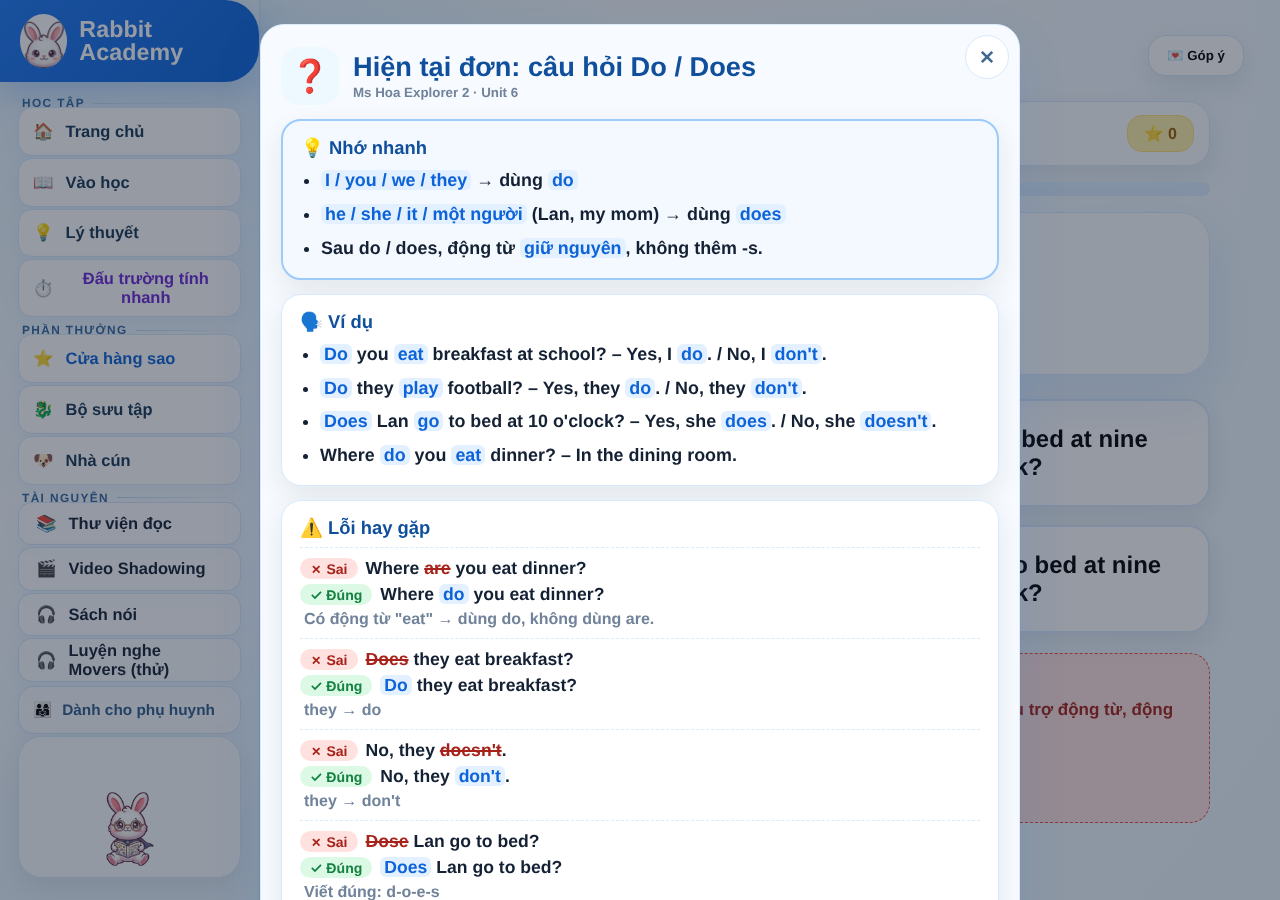
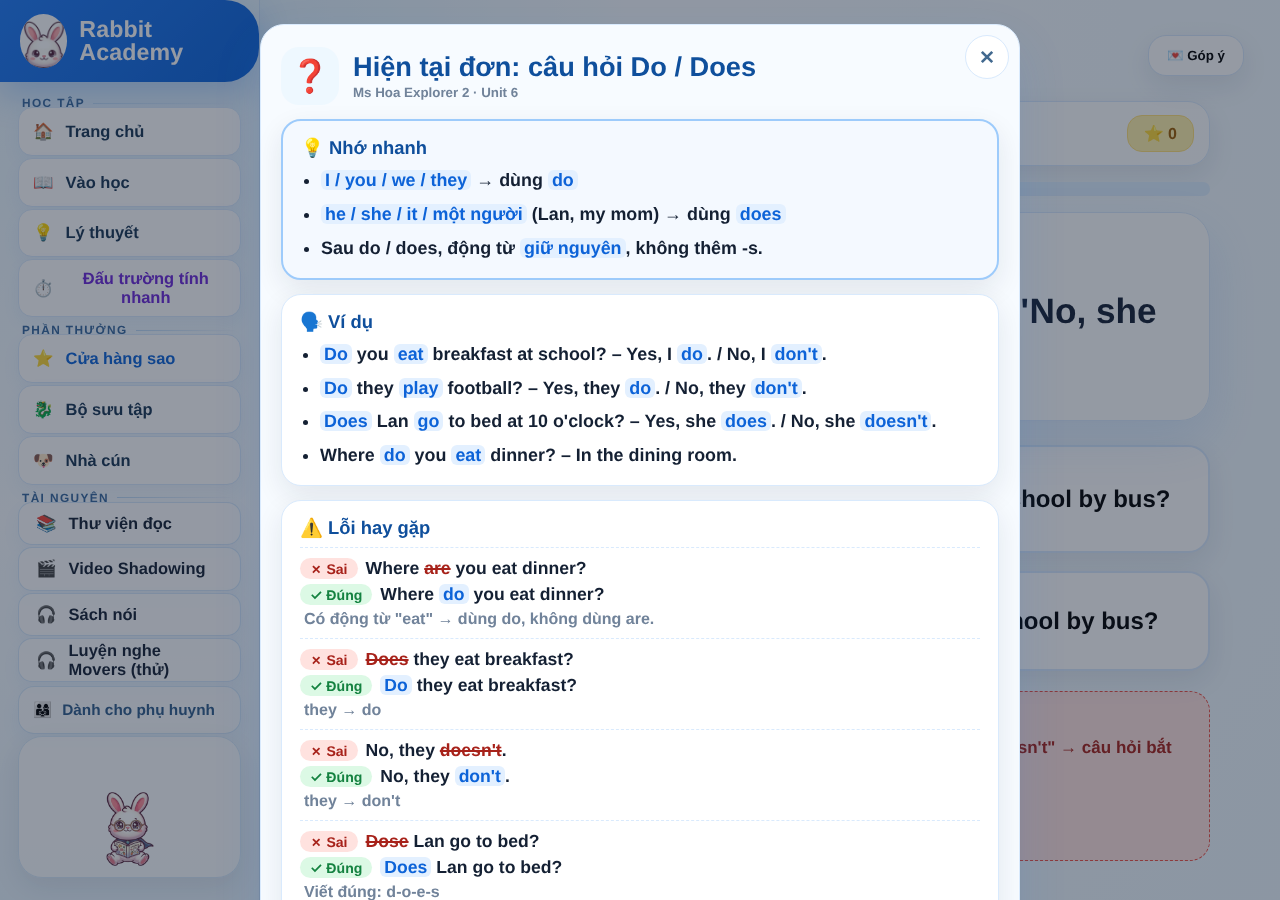
fix: khung chia cân hai bên vạch, lời giải "Hạ 7, được 17" (Gemini review)
.dv-left dùng content-box vì style.css bật border-box toàn cục (padding
bóp chữ sát vạch). Bước hạ có số dư trước > 0 ghi thêm "được …" theo văn
phong SGK. Kèm changelog Đợt 1 Lý thuyết.

Claude-Session: https://claude.ai/code/session_015x3AQVYtvARXq1F1n4i27X

diff --git a/js/theory.js b/js/theory.js
@@ -7,7 +7,7 @@
  * Module chỉ đọc dữ liệu, không ghi localStorage.
  */
 const Theory = {
-  VERSION: '20261119th5',
+  VERSION: '20261119th6',
   _cache: {},      // grade → data | null (null = lớp chưa có lý thuyết)
   _loading: {},    // grade → Promise
   _view: null,     // id bài đang mở trên màn Lý thuyết (null = danh sách)
@@ -206,7 +206,7 @@ const Theory = {
     });
     const res = `${r.a} : ${r.b} = ${r.quot}${r.rem ? ` (dư ${r.rem})` : ''}`;
     const steps = v.steps ? `<ol class="dv-steps">${r.steps.map((st, k) => {
-      const head = k === 0 ? '' : `Hạ ${r.ds[st.end]}; `;
+      const head = k === 0 ? '' : `Hạ ${r.ds[st.end]}${st.cur >= 10 ? `, được ${st.cur}` : ''}; `;
       return `<li>${head}${st.cur} chia ${r.b} được ${st.q}, viết ${st.q}. ${st.q} nhân ${r.b} bằng ${st.prod}; ${st.cur} trừ ${st.prod} bằng ${st.rem}.</li>`;
     }).join('')}</ol>` : '';
     return `<figure class="dv-item">

diff --git a/index.html b/index.html
@@ -35,7 +35,7 @@
   <link rel="stylesheet" href="mobile-compact.css?v=20261119th1" />
   <link rel="stylesheet" href="decor.css?v=20261007c" />
   <link rel="stylesheet" href="qtypes.css?v=20261031sf1" />
-  <link rel="stylesheet" href="theory.css?v=20261119th4" />
+  <link rel="stylesheet" href="theory.css?v=20261119th6" />
   <style>
     /* Hero banner trang chu - dung aspect-ratio dung ti le anh (~2.3:1) de
        banner LUON keo sat 2 mep (full width) MA KHONG can cat/zoom anh,
@@ -395,7 +395,7 @@
   <script src="js/qtypes/spell-fix.js?v=20261031sf1"></script>
   <script src="js/qtypes/order.js?v=20261012qt2"></script>
   <script src="js/quiz.js?v=20261119th3"></script>
-  <script src="js/theory.js?v=20261119th5"></script>
+  <script src="js/theory.js?v=20261119th6"></script>
   <script src="js/achieve.js?v=20261007c"></script>
   <script src="js/decor.js?v=20261007c"></script>
   <script src="js/dragonball.js?v=20261007c"></script>

diff --git a/theory.css b/theory.css
@@ -59,7 +59,7 @@
 .th-div-list{display:flex;flex-wrap:wrap;gap:18px 34px}
 .dv-item{margin:0;display:flex;flex-direction:column;gap:8px}
 .dv{display:flex;align-items:flex-start;font-family:"Courier New",ui-monospace,monospace;font-size:1.5rem;font-weight:700;line-height:1.5;color:var(--ink)}
-.dv-left{padding-right:.35ch;flex:none}
+.dv-left{box-sizing:content-box;padding-right:.45ch;flex:none}
 .dv-row{white-space:pre;height:1.5em}
 .dv-num{display:inline-block}
 .dv-ul{border-bottom:2px solid currentColor}

diff --git a/CHANGELOG.md b/CHANGELOG.md
@@ -1,5 +1,11 @@
 # CHANGELOG — Vương Quốc Thỏ (ontap-lop3)
 
+## 2026-11-19 (tối) — 💡 Lý thuyết có 2 tab Toán | Tiếng Anh
+- Màn Lý thuyết chia tab 🔢 Toán và 🌍 Tiếng Anh; mở bài rồi quay lại vẫn ở đúng tab.
+- 7 bài Toán mới: Chia hết và chia có dư (có khung đặt tính giống Vở bài tập, lời giải từng bước), Gấp lên / giảm đi một số lần, Dãy số cách đều (số số hạng, số hạng thứ n, tính tổng), Đơn vị đo độ dài (km, m, dm, cm, mm), Khối lượng và dung tích (kg, g, l, ml).
+- Bài Tiếng Anh đổi tên theo kiến thức và xếp nhóm: Các thì / Hỏi và trả lời / Chính tả.
+- Trả lời sai câu Toán về chia có dư, gấp/giảm, dãy số, đổi đơn vị cũng có nút "📒 Xem lại bài".
+
 ## 2026-11-19 (chiều) — Lý thuyết chạy ổn hơn trên điện thoại
 - Bấm "Xem lại bài" trên điện thoại giờ mở ở đầu bài (trước đây có thể bị cuộn xuống cuối).
 - Mạng chậm: nút "Xem lại bài" vẫn hiện khi dữ liệu tải xong. Mạng chập chờn: màn Lý thuyết có nút 🔄 Thử lại thay vì báo nhầm "chưa có bài".
